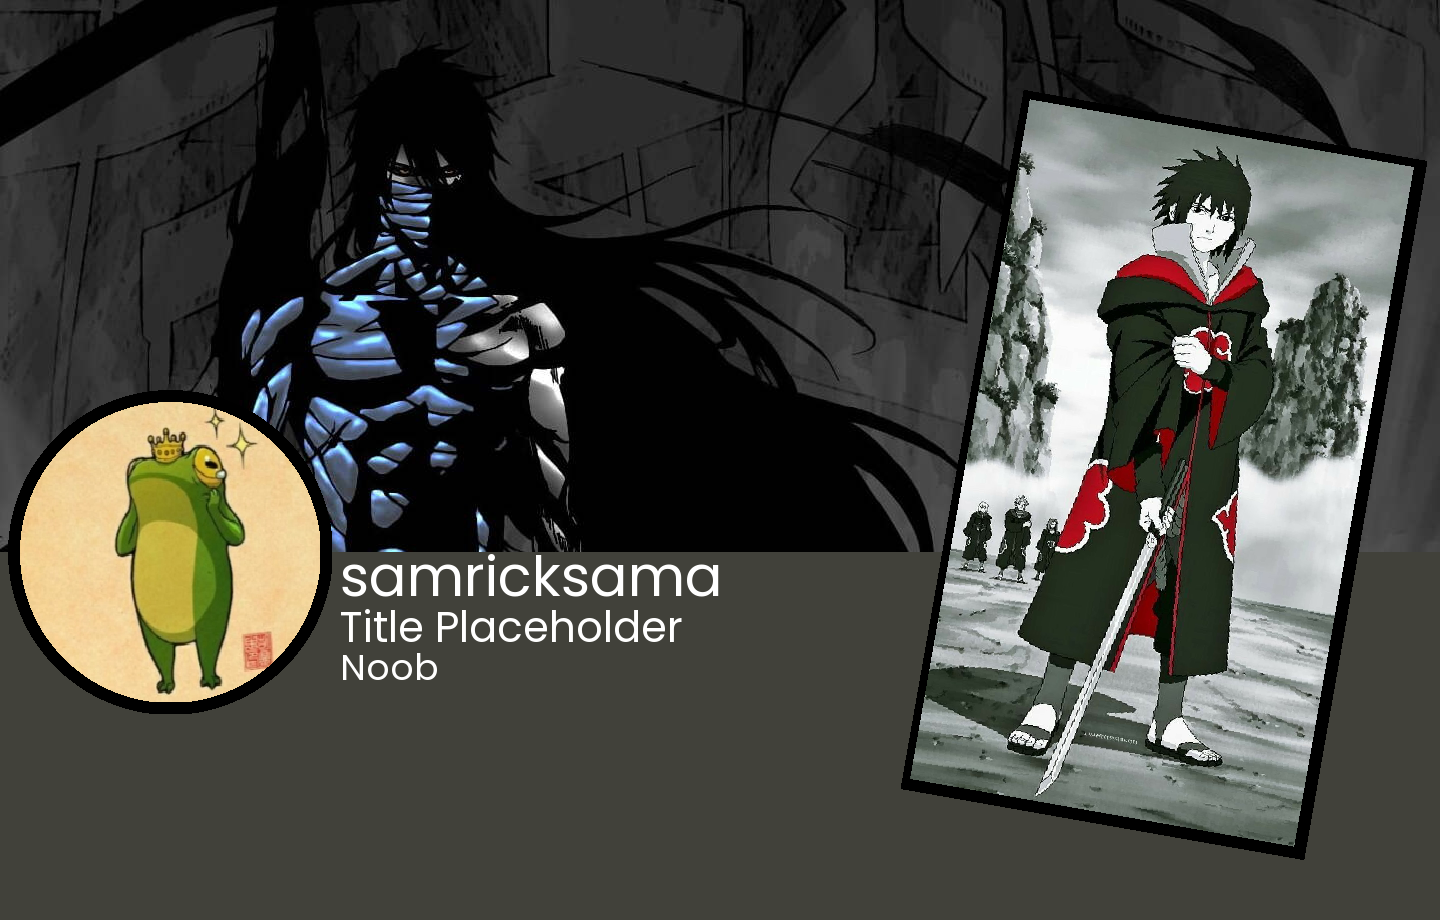
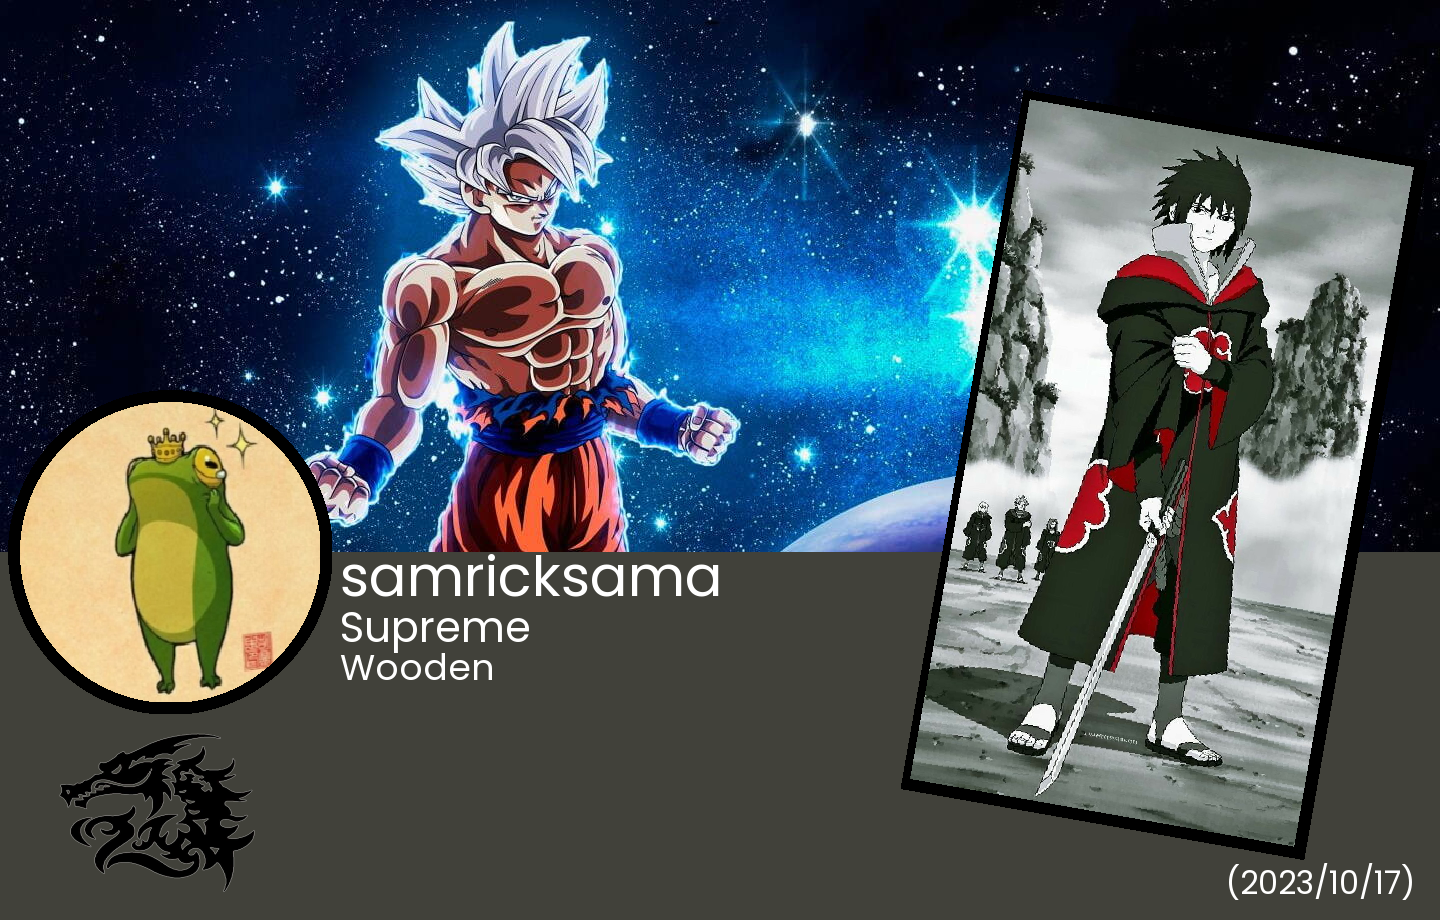
major changes in profile theme

diff --git a/Convictions/profile.py b/Convictions/profile.py
@@ -4,108 +4,109 @@ import discord
 import requests
 from io import BytesIO
 import json
+import datetime
 
 
 
 
 
 
-from PIL import Image, ImageDraw, ImageFont, ImageOps
-import discord
-import requests
-from io import BytesIO
-import json
 
 PROFILES_FOLDER = 'Profiles'
 BACKGROUND_FOLDER = 'Assets/Backgrounds/'
 
 def create_profile_image(avatar_url, username, title, rank, default_background_path=None, default_card_image_path=None):
-    profile_image = Image.new('RGBA', (1440, 920), (255, 255, 255, 255))
+  profile_image = Image.new('RGBA', (1440, 920), (255, 255, 255, 255))
 
-    if default_background_path:
-        background = Image.open(default_background_path)
-        separator_y = int(profile_image.height * 0.6)  # 60% from the top
+  if default_background_path:
+      background = Image.open(default_background_path)
+      separator_y = int(profile_image.height * 0.6)  # 60% from the top
 
-        # Ensure the background covers the top half without resizing
-        if background.size != (profile_image.width, separator_y):
-            background = background.resize((profile_image.width, separator_y))
+      if background.size != (profile_image.width, separator_y):
+          background = background.resize((profile_image.width, separator_y))
 
-        profile_image.paste(background, (0, 0))
+      profile_image.paste(background, (0, 0))
 
-        bottom_half = Image.new('RGBA', (profile_image.width, profile_image.height - separator_y), (65, 65, 58, 255))
-        profile_image.paste(bottom_half, (0, separator_y))
+      bottom_half = Image.new('RGBA', (profile_image.width, profile_image.height - separator_y), (65, 65, 58, 255))
+      profile_image.paste(bottom_half, (0, separator_y))
 
-    response = requests.get(avatar_url)
-    if response.status_code == 200:
-        avatar = Image.open(BytesIO(response.content))
-        avatar_size = (300, 300)
-        avatar_x = 20
-        avatar_y = separator_y - avatar_size[1] // 2
-        mask = Image.new('L', avatar_size, 0)
-        draw = ImageDraw.Draw(mask)
-        draw.ellipse((0, 0, avatar_size[0], avatar_size[1]), fill=255)
-        avatar = avatar.resize(avatar_size, Image.NEAREST)
-        avatar.putalpha(mask)
+  response = requests.get(avatar_url)
+  if response.status_code == 200:
+      avatar = Image.open(BytesIO(response.content))
+      avatar_size = (300, 300)
+      avatar_x = 20
+      avatar_y = separator_y - avatar_size[1] // 2
+      mask = Image.new('L', avatar_size, 0)
+      draw = ImageDraw.Draw(mask)
+      draw.ellipse((0, 0, avatar_size[0], avatar_size[1]), fill=255)
+      avatar = avatar.resize(avatar_size, Image.NEAREST)
+      avatar.putalpha(mask)
 
-        # Create a circular black border around the avatar
-        border_thickness = 12  # Adjust the thickness as needed
-        border_size = (avatar_size[0] + border_thickness * 2, avatar_size[1] + border_thickness * 2)
-        border_mask = Image.new('L', border_size, 0)
-        border_draw = ImageDraw.Draw(border_mask)
-        border_draw.ellipse((0, 0, border_size[0], border_size[1]), fill=255)
-        avatar_with_border = Image.new('RGBA', border_size, (0, 0, 0, 0))
-        avatar_with_border.paste(avatar, (border_thickness, border_thickness), avatar)
-        avatar_with_border.putalpha(border_mask)
+      border_thickness = 12
+      border_size = (avatar_size[0] + border_thickness * 2, avatar_size[1] + border_thickness * 2)
+      border_mask = Image.new('L', border_size, 0)
+      border_draw = ImageDraw.Draw(border_mask)
+      border_draw.ellipse((0, 0, border_size[0], border_size[1]), fill=255)
+      avatar_with_border = Image.new('RGBA', border_size, (0, 0, 0, 0))
+      avatar_with_border.paste(avatar, (border_thickness, border_thickness), avatar)
+      avatar_with_border.putalpha(border_mask)
 
-        profile_image.paste(avatar_with_border, (avatar_x - border_thickness, avatar_y - border_thickness), avatar_with_border)
+      profile_image.paste(avatar_with_border, (avatar_x - border_thickness, avatar_y - border_thickness), avatar_with_border)
 
+  dragon_shadow_path = 'Assets/dragon_shadow.png'
+  dragon_shadow = Image.open(dragon_shadow_path)
+  dragon_shadow = dragon_shadow.resize((avatar_size[0], 200))
+  dragon_shadow_x = avatar_x
+  dragon_shadow_y = avatar_y + avatar_size[1] + 10
+  profile_image.paste(dragon_shadow, (dragon_shadow_x, dragon_shadow_y), dragon_shadow)
 
-    # Load the card image if provided
-    if default_card_image_path:
-        card_image = Image.open(default_card_image_path)
-        card_image = card_image.convert("RGBA")
-        card_image = card_image.resize((390, 690), Image.NEAREST)
+  if default_card_image_path:
+      card_image = Image.open(default_card_image_path)
+      card_image = card_image.convert("RGBA")
+      card_image = card_image.resize((390, 690), Image.NEAREST)
 
-        # Create a new image for the framed card with a slightly visible black frame
-        frame_thickness = 10  # Adjust this value to control the thickness of the frame
-        frame_size = (card_image.width + frame_thickness * 2, card_image.height + frame_thickness * 2)
-        framed_card = Image.new("RGBA", frame_size, (0, 0, 0, 255))
+      frame_thickness = 10
+      frame_size = (card_image.width + frame_thickness * 2, card_image.height + frame_thickness * 2)
+      framed_card = Image.new("RGBA", frame_size, (0, 0, 0, 255))
 
-        # Rotate both the card and the frame to -10 degrees
-        card_image = card_image.rotate(-10, expand=True)
-        framed_card = framed_card.rotate(-10, expand=True)
+      card_image = card_image.rotate(-10, expand=True)
+      framed_card = framed_card.rotate(-10, expand=True)
 
-        # Paste the card onto the framed card, with an offset to center it within the frame
-        framed_card.paste(card_image, (frame_thickness, frame_thickness), card_image)
+      framed_card.paste(card_image, (frame_thickness, frame_thickness), card_image)
 
-        # Set the position for the framed card
-        card_x = 900
-        card_y = separator_y - int(framed_card.height * 0.60)
+      card_x = 900
+      card_y = separator_y - int(framed_card.height * 0.60)
 
-        # Paste the framed card onto the profile image
-        profile_image.paste(framed_card, (card_x, card_y), framed_card)
+      profile_image.paste(framed_card, (card_x, card_y), framed_card)
 
-    font_path = os.path.join('Fonts', 'Poppins.ttf')
-    username_font = ImageFont.truetype(font_path, 56)
-    title_font = ImageFont.truetype(font_path, 42)
-    rank_font = ImageFont.truetype(font_path, 36)
+  font_path = os.path.join('Fonts', 'Poppins.ttf')
+  username_font = ImageFont.truetype(font_path, 56)
+  title_font = ImageFont.truetype(font_path, 42)
+  rank_font = ImageFont.truetype(font_path, 36)
+  datetime_font = ImageFont.truetype(font_path, 32)
 
-    draw = ImageDraw.Draw(profile_image)
-    text_color = (255, 255, 255)
-    outline_color = (0, 0, 0)
+  draw = ImageDraw.Draw(profile_image)
+  text_color = (255, 255, 255)
+  outline_color = (0, 0, 0)
 
-    username_x = avatar_x + avatar_size[0] + 20
-    username_y = avatar_y + 135
-    title_x = username_x
-    title_y = username_y + 60
-    rank_x = username_x
-    rank_y = title_y + 45
+  username_x = avatar_x + avatar_size[0] + 20
+  username_y = avatar_y + 135
+  title_x = username_x
+  title_y = username_y + 60
+  rank_x = username_x
+  rank_y = title_y + 45
 
-    draw.text((username_x, username_y), username, fill=text_color, font=username_font)
-    draw.text((title_x, title_y), title, fill=text_color, font=title_font)
-    draw.text((rank_x, rank_y), rank, fill=text_color, font=rank_font)
+  draw.text((username_x, username_y), username, fill=text_color, font=username_font)
+  draw.text((title_x, title_y), title, fill=text_color, font=title_font)
+  draw.text((rank_x, rank_y), rank, fill=text_color, font=rank_font)
 
-    return profile_image
+  current_datetime = datetime.datetime.now().strftime('(%Y/%m/%d)')
+  datetime_x = 1440 - 70 - len(current_datetime) * 12
+  datetime_y = 920 - 60
+
+  draw.text((datetime_x, datetime_y), current_datetime, fill=text_color, font=datetime_font)
+
+  return profile_image
 
 
 
